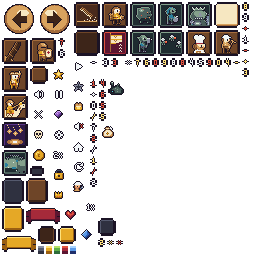
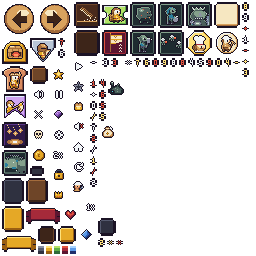
[Design] 03 R1(90c9790) 반영 ui_main 재빌드: 카드 7장 유닛별 배지(깨끗한 HEAD 복사본, card_* 7칸만 변경·칸 위치 동일, ui_audit 기준 PASS, determinism·ui_contrast·예산 PASS)

Changed region(s): [[0.0, 0.125, 0.2188, 0.4688], [0.7188, 0.0938, 0.9375, 0.2188], [0.375, 0.0, 0.5, 0.125]]

diff --git a/docs/art/ATLAS_BUDGET.md b/docs/art/ATLAS_BUDGET.md
@@ -10,11 +10,11 @@ Art version 0.13.0. Numbers are measured from the written files. GPU bytes = wid
 | `char_boss_overlord` | character | battle_roster | 1024×512 | 11.2 KiB | 2.00 MiB | 0.42 | 32 |
 | `bases` | base | battle | 512×512 | 10.6 KiB | 1.00 MiB | 0.57 | 14 |
 | `fx_combat` | fx | battle | 512×256 | 4.3 KiB | 0.50 MiB | 0.51 | 79 |
-| `ui_main` | ui | always | 256×256 | 5.4 KiB | 0.25 MiB | 0.36 | 100 |
+| `ui_main` | ui | always | 256×256 | 5.6 KiB | 0.25 MiB | 0.36 | 100 |
 | `ui_title_ko` | title | menu | 512×64 | 2.4 KiB | 0.12 MiB | 0.56 | 2 |
 | `ui_title_en` | title | menu | 256×128 | 3.2 KiB | 0.12 MiB | 0.51 | 2 |
 | `biome_meadow` | biome | per_round | 1024×512 | 12.1 KiB | 2.00 MiB | 0.46 | 5 |
-| **Total** | | | | **85.9 KiB** | **9.00 MiB** | | |
+| **Total** | | | | **86.1 KiB** | **9.00 MiB** | | |
 
 Residency by scene (provisional, matches ENGINE.md §8 load rules):
 - Menu / round select: `always` pages + the current locale's `ui_title_<locale>` page = **0.375 MiB**
